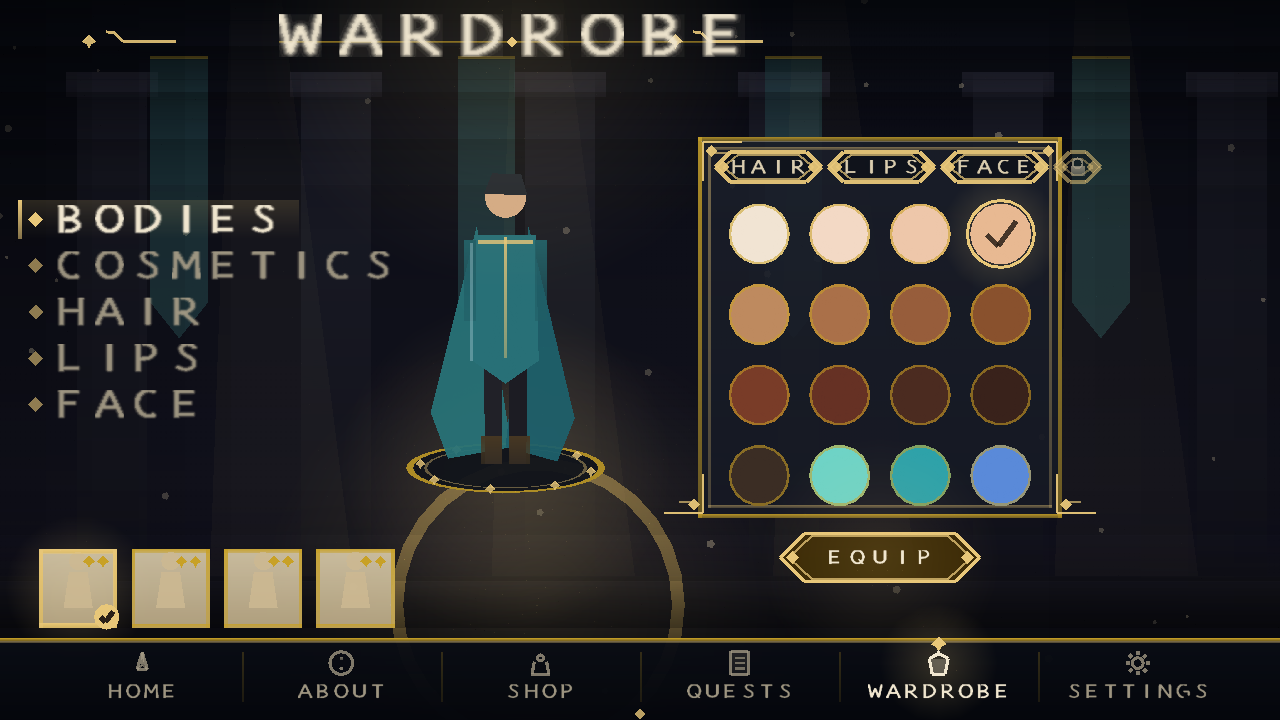
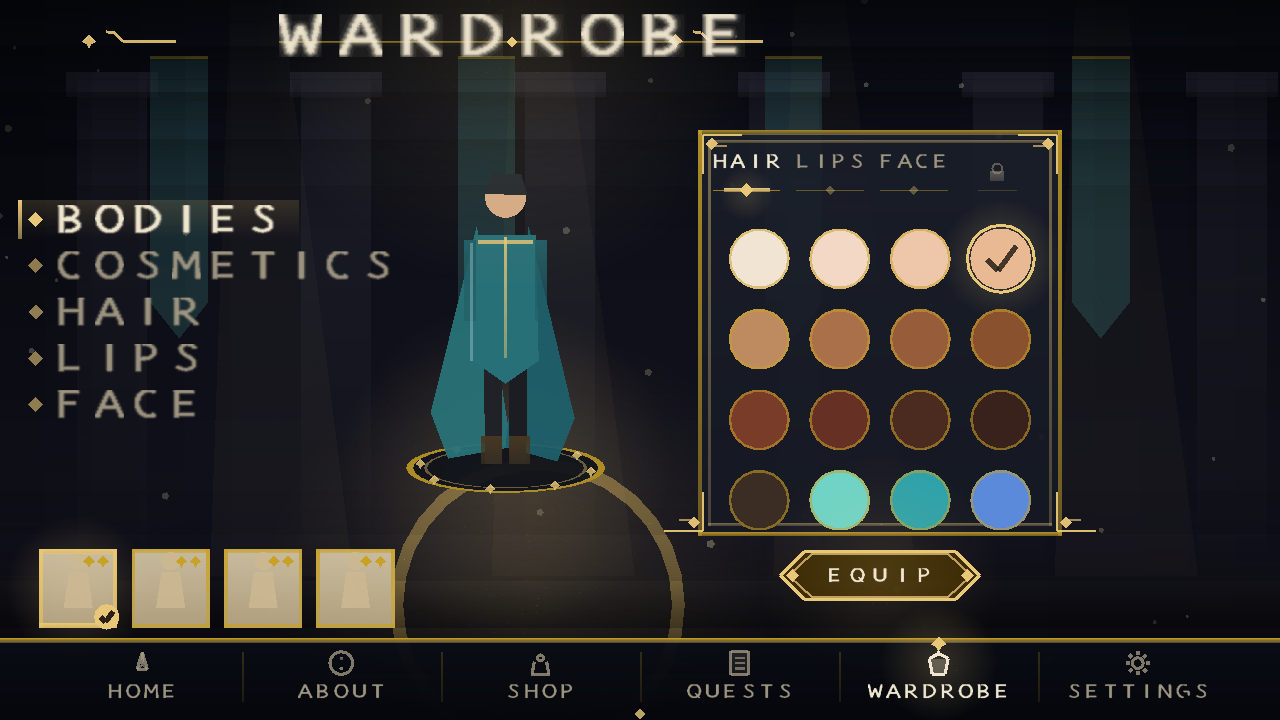
Replace the clipping wardrobe lozenges with a ruled chip row

Changed region(s): [[0.5312, 0.1833, 0.875, 0.8556]]

diff --git a/app/src/main/java/com/laststar/game/ui/screens/WardrobeScreen.java b/app/src/main/java/com/laststar/game/ui/screens/WardrobeScreen.java
@@ -34,6 +34,8 @@ public final class WardrobeScreen implements Screen {
     private final float[] bodyPress = new float[4];
     private final float[] chipPress = new float[5];
     private float equipPress;
+    /** Which chip is selected; cosmetic only, the swatch panel is shared. */
+    private int activeChip;
     private float time;
 
     @Override
@@ -140,15 +142,15 @@ public final class WardrobeScreen implements Screen {
         }
 
         // ---- swatch panel ----
-        float px = w * 0.545f;
-        float py = h * 0.190f;
-        float pw = w * 0.285f;
-        float ph = h * 0.530f;
+        float px = w * PANEL_X;
+        float py = h * PANEL_Y;
+        float pw = w * PANEL_W;
+        float ph = h * PANEL_H;
         GenshinKit.panel(b, px, py, pw, ph, alpha);
 
-        float gridPad = 12f;
+        float gridPad = GRID_PAD;
         float cellW = (pw - gridPad * 2f) / 4f;
-        float gridTop = py + 32f;
+        float gridTop = py + GRID_TOP;
         for (int i = 0; i < SWATCHES.length; i++) {
             int col = i % 4;
             int row = i / 4;
@@ -172,24 +174,16 @@ public final class WardrobeScreen implements Screen {
             }
         }
 
-        // Header chips: HAIR / LIPS / FACE plus a locked fourth slot. Widths are
-        // measured from the glyph advance so nothing is clipped.
+        // Header chips. These used to be lozenges, but a four-letter word in a
+        // pointed lozenge loses its first and last glyph at any width that fits
+        // four chips across the panel. Text on a hairline gold rule reads better
+        // and needs no padding: the marker and rule are drawn first, then the
+        // label sits on top of them.
         String[] chips = {"HAIR", "LIPS", "FACE"};
-        float chipY = py + 17f;
-        float textY = chipY - font.capHeight(1) * 0.5f;
-        float cursor = px + 10f;
         for (int i = 0; i < chips.length; i++) {
-            float textW = UiBatch.textSpacedWidth(chips[i], font, 1, 1.2f);
-            float chipW = textW + 18f;
-            float chx = cursor + chipW * 0.5f;
-            GenshinKit.lozenge(b, chx, chipY, chipW, 17f, false, chipPress[i], alpha * 0.95f);
-            b.textSpacedCentred(chips[i], chx, textY, 1, 1.2f,
-                    Style.CREAM[0], Style.CREAM[1], Style.CREAM[2], alpha, font);
-            cursor += chipW + 4f;
+            drawChip(b, font, chips[i], px, pw, py, i, alpha);
         }
-        float lockW = 26f;
-        GenshinKit.lozenge(b, cursor + lockW * 0.5f, chipY, lockW, 17f, false, 0f, alpha * 0.55f);
-        GenshinKit.padlock(b, cursor + lockW * 0.5f, chipY, 7.5f, alpha * 0.8f);
+        drawLockChip(b, px, pw, py, alpha);
 
         // ---- equip ----
         float ex = px + pw * 0.5f;
@@ -197,6 +191,82 @@ public final class WardrobeScreen implements Screen {
         GenshinKit.lozenge(b, ex, ey, 112f, 27f, true, equipPress, alpha);
         b.textSpacedCentred("EQUIP", ex, ey - font.capHeight(1) * 0.5f, 1, 2.6f,
                 Style.IVORY[0], Style.IVORY[1], Style.IVORY[2], alpha, font);
+    }
+
+    /** Chip geometry, shared by drawing and hit-testing so taps land on the label. */
+    private static float chipCentreX(float px, float pw, int index) {
+        return px + chipRowLeft(pw) + index * CHIP_PITCH + CHIP_W * 0.5f;
+    }
+
+    /** Left edge of the chip row, relative to the panel's left edge. */
+    private static float chipRowLeft(float pw) {
+        return (pw - CHIP_ROW_W) * 0.5f;
+    }
+
+    // Panel geometry. Draw and hit-test both read these, so a tap target can
+    // never drift away from the thing it looks like it belongs to.
+    private static final float PANEL_X = 0.545f;
+    private static final float PANEL_Y = 0.180f;
+    private static final float PANEL_W = 0.285f;
+    private static final float PANEL_H = 0.565f;
+    private static final float GRID_PAD = 12f;
+    /** Below the chip row, which owns the top strip of the panel. */
+    private static final float GRID_TOP = 50f;
+    /** Label top and rule line, measured down from the panel's top edge. */
+    private static final float CHIP_LABEL_Y = 14f;
+    private static final float CHIP_RULE_Y = 34f;
+    private static final float CHIP_HIT_Y = 24f;
+    private static final float CHIP_HIT_HALF = 18f;
+
+    private static final float CHIP_W = 38f;
+    private static final float CHIP_PITCH = 47f;
+    private static final float CHIP_ROW_W = CHIP_PITCH * 4f;
+    private static final float PADLOCK_W = 22f;
+
+    /**
+     * One chip: a hairline gold rule with a diamond marker at its centre and the
+     * label sitting just above the rule. The selected chip's label is ivory and
+     * its marker is filled; the others are dimmed cream.
+     */
+    private void drawChip(UiBatch b, AtlasFont font, String label, float px, float pw,
+                          float py, int index, float alpha) {
+        boolean sel = index == activeChip;
+        float cx = chipCentreX(px, pw, index);
+        float ruleY = py + CHIP_RULE_Y;
+        float press = chipPress[index];
+        float glow = sel ? 1f : 0.35f + press * 0.4f;
+
+        b.quad(cx - CHIP_W * 0.5f, ruleY, CHIP_W, 0.8f,
+                Style.GOLD[0], Style.GOLD[1], Style.GOLD[2], alpha * (0.35f + 0.5f * glow));
+        if (sel) {
+            // A short brighter underline under the active chip.
+            b.quad(cx - CHIP_W * 0.34f, ruleY - 0.9f, CHIP_W * 0.68f, 2.0f,
+                    Style.GOLD_LIGHT[0], Style.GOLD_LIGHT[1], Style.GOLD_LIGHT[2], alpha);
+            b.glow(cx, ruleY + 2f, CHIP_W * 0.42f, 14,
+                    Style.GOLD_LIGHT[0], Style.GOLD_LIGHT[1], Style.GOLD_LIGHT[2], 0.16f * alpha);
+        }
+
+        // Diamond marker sitting on the rule, filled for the active chip.
+        float d = sel ? 3.8f : 2.7f;
+        b.polygon(new float[]{
+                cx, ruleY - d,
+                cx + d, ruleY,
+                cx, ruleY + d,
+                cx - d, ruleY
+        }, Style.GOLD_LIGHT[0], Style.GOLD_LIGHT[1], Style.GOLD_LIGHT[2], alpha * glow);
+
+        float[] ink = sel ? Style.IVORY : Style.CREAM_DIM;
+        b.textSpacedCentred(label, cx, py + CHIP_LABEL_Y, 1, 0f,
+                ink[0], ink[1], ink[2], alpha * (sel ? 1f : 0.85f), font);
+    }
+
+    /** The locked fourth slot: a hatched padlock chip with no label. */
+    private void drawLockChip(UiBatch b, float px, float pw, float py, float alpha) {
+        float cx = chipCentreX(px, pw, 3);
+        float ruleY = py + CHIP_RULE_Y;
+        b.quad(cx - PADLOCK_W * 0.5f, ruleY, PADLOCK_W, 0.8f,
+                Style.GOLD[0], Style.GOLD[1], Style.GOLD[2], alpha * 0.3f);
+        GenshinKit.padlock(b, cx, py + CHIP_LABEL_Y + 10f, 7.5f, alpha * 0.5f);
     }
 
     /** The lit ring the character stands on. */
@@ -321,12 +391,13 @@ public final class WardrobeScreen implements Screen {
             }
         }
         // Swatches.
-        float px = w * 0.545f;
-        float py = h * 0.235f;
-        float pw = w * 0.285f;
-        float gridPad = 12f;
+        float px = w * PANEL_X;
+        float py = h * PANEL_Y;
+        float pw = w * PANEL_W;
+        float ph = h * PANEL_H;
+        float gridPad = GRID_PAD;
         float cellW = (pw - gridPad * 2f) / 4f;
-        float gridTop = py + 32f;
+        float gridTop = py + GRID_TOP;
         for (int i = 0; i < SWATCHES.length; i++) {
             int col = i % 4;
             int row = i / 4;
@@ -337,15 +408,13 @@ public final class WardrobeScreen implements Screen {
                 return Action.NONE;
             }
         }
-        // Chips.
-        float ph = h * 0.525f;
-        String[] chips = {"HAIR", "LIPS", "FACE"};
-        float chipY = py + ph - 20f;
-        float chipW = (pw - gridPad * 2f - 24f) / 4.35f;
-        for (int i = 0; i < chips.length; i++) {
-            float chx = px + gridPad + i * (chipW + 8f) + chipW * 0.5f;
-            if (Math.abs(x - chx) < chipW * 0.5f && Math.abs(y - chipY) < 14f) {
+        // Chips: same geometry as drawChip, so the tap target is the label.
+        for (int i = 0; i < 3; i++) {
+            float chx = chipCentreX(px, pw, i);
+            if (Math.abs(x - chx) < CHIP_PITCH * 0.5f
+                    && Math.abs(y - (py + CHIP_HIT_Y)) < CHIP_HIT_HALF) {
                 chipPress[i] = 1f;
+                activeChip = i;
                 return Action.NONE;
             }
         }
